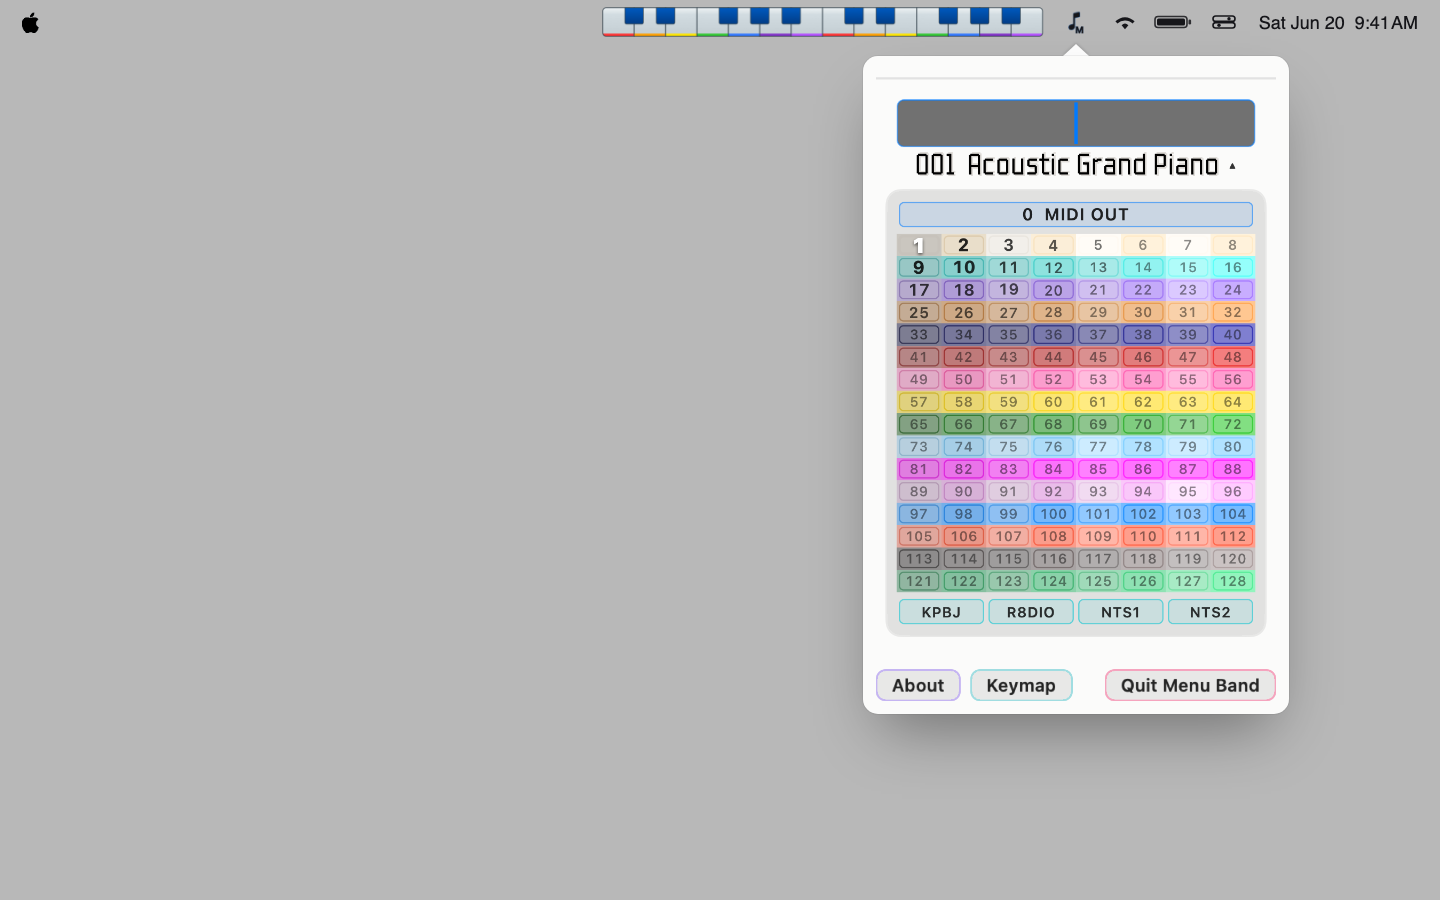
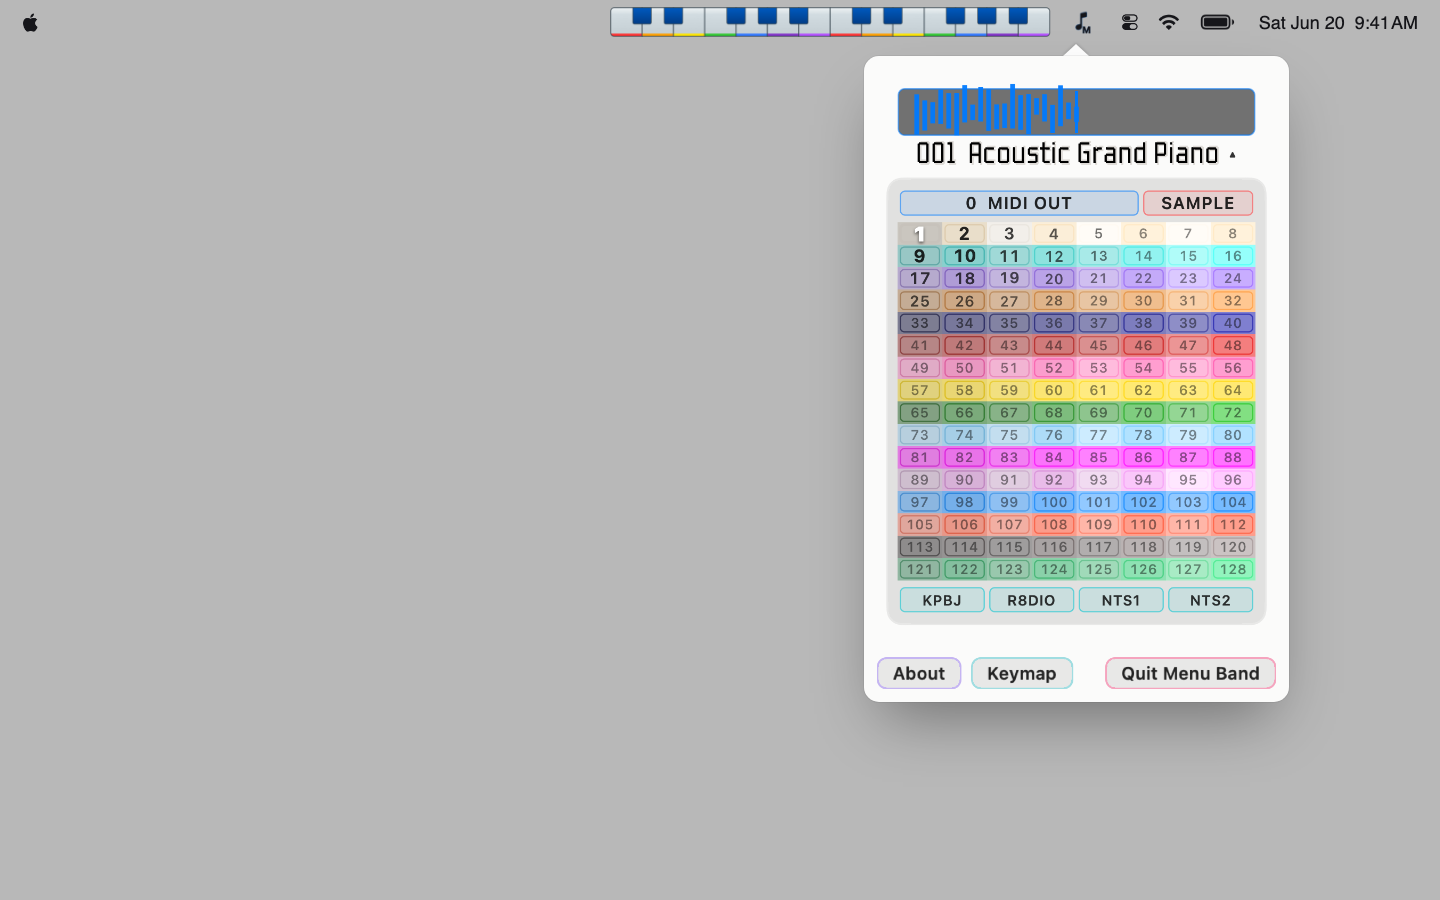
menuband: App Store screenshots — real menu-bar graphics, layered overview, polish
- Menu bar now uses real SF Symbols (apple.logo, Control Center, Wi-Fi,
  battery) rendered via bin/render-sf.swift at natural aspect — no more
  stretched hand-drawn SVGs or the crunchy Apple-logo crop.
- New layered 00-overview shot: Looking-For-Players + About cascade left, the
  popover drops from the ♪ note glyph on the right (windowEl/overviewCSS).
- Generator reads each surface's real PNG dims (no stale hardcodes); popover
  drops from the ♪ note (STRIP_CENTER=1076).
- Popover: removed the top hairline separator; waveform strip seeded with a
  synthetic 'playing' scope (silence baseline → noisy signal at the playhead)
  so it isn't an empty bar in capture.
- About window shortened (tighter icon margin).

Changed region(s): [[0.5938, 0.0933, 0.9062, 0.8089], [0.4062, 0.0, 0.875, 0.0311], [0.0, 0.0, 0.0312, 0.0311]]

diff --git a/slab/menuband/Sources/MenuBand/WaveformStripView.swift b/slab/menuband/Sources/MenuBand/WaveformStripView.swift
@@ -75,6 +75,60 @@ final class WaveformStripView: NSView {
 
     deinit { timer?.invalidate() }
 
+    /// Seed the rolling history with a believable synthetic waveform so the
+    /// strip paints real-looking bars in the HEADLESS App Store capture
+    /// (`--render-popover`), where no audio engine is running and the live
+    /// `tick()` path never accumulates columns. Pure Core Graphics — the
+    /// strip's `draw(_:)` consumes `colMin`/`colMax` exactly as it would for
+    /// live audio.
+    ///
+    /// Reads as a scope mid-playback: the LEFT portion is a flat horizontal
+    /// line of silence (a centered baseline at ±~0), then the waveform "turns
+    /// on" and fills the rest with a noisy, randomish played signal centered on
+    /// that baseline — a sound that just started. Newest columns are drawn at
+    /// the center playhead, oldest off to the left, so the silence sits at the
+    /// far-left tail and the active audio leads up to the needle.
+    /// No-op at runtime; only the capture path calls it.
+    func seedSyntheticWaveform(columns: Int = 220) {
+        let n = max(8, min(Self.historyCap, columns))
+        colMin = []; colMax = []
+        colMin.reserveCapacity(n); colMax.reserveCapacity(n)
+        // i = 0 is oldest (far left); the last column sits at the center
+        // playhead. Keep the first ~40% flat (silence), then ramp the activity
+        // in so the audio reads as "just started playing."
+        let silenceFraction: Float = 0.4
+        // Deterministic value-noise so the capture is reproducible run-to-run
+        // (no RNG seeding needed) yet looks irregular like real samples.
+        func noise(_ x: Float) -> Float {
+            let s = sinf(x * 12.9898) * 43758.5453
+            return (s - s.rounded(.down)) * 2 - 1   // → [-1, 1)
+        }
+        for i in 0..<n {
+            let t = Float(i) / Float(n - 1)
+            if t < silenceFraction {
+                // Flat baseline: a dead-center line (tiny floor so the strip
+                // still ticks a 1-px silence bar rather than vanishing).
+                colMax.append(0.015)
+                colMin.append(-0.015)
+                continue
+            }
+            // Ease the amplitude up from the silence edge so the onset isn't a
+            // hard wall — a quick attack into a sustained, noisy signal.
+            let local = (t - silenceFraction) / (1 - silenceFraction)
+            let attack = min(1, local * 4)
+            let x = Float(i)
+            // Random-ish sample value: white-ish noise shaped by a low carrier
+            // so it has body instead of reading as pure static.
+            let body = sinf(x * 0.5) * 0.45
+            let grain = noise(x) * 0.55 + noise(x * 2.3) * 0.25
+            let top = (abs(body) * 0.5 + abs(grain)) * attack
+            let bot = (abs(noise(x * 1.7)) * 0.7 + abs(body) * 0.4) * attack
+            colMax.append(max(0.02, top))
+            colMin.append(min(-0.02, -bot))
+        }
+        needsDisplay = true
+    }
+
     private func tick() {
         let reversing = menuBand?.isRewinding ?? false
         if reversing {

diff --git a/slab/menuband/bin/render-sf.swift b/slab/menuband/bin/render-sf.swift
@@ -1,0 +1,36 @@
+import AppKit
+
+// Render real SF Symbols (Apple's own menu-bar glyphs) to crisp tinted PNGs —
+// no stretching (natural aspect), no hand-drawn SVG. Ink = #16161a (light bar).
+let ink = NSColor(red: 0x16/255.0, green: 0x16/255.0, blue: 0x1a/255.0, alpha: 1)
+let OUT = NSString(string: CommandLine.arguments[1]).expandingTildeInPath
+
+func render(_ symbol: String, to file: String, pointSize: CGFloat, weight: NSFont.Weight = .regular) {
+    let cfg = NSImage.SymbolConfiguration(pointSize: pointSize, weight: weight)
+    guard let base = NSImage(systemSymbolName: symbol, accessibilityDescription: nil),
+          let img = base.withSymbolConfiguration(cfg) else {
+        FileHandle.standardError.write(Data("MISSING symbol \(symbol)\n".utf8)); return
+    }
+    let size = img.size
+    let scale: CGFloat = 4
+    guard let rep = NSBitmapImageRep(bitmapDataPlanes: nil,
+        pixelsWide: Int((size.width*scale).rounded()), pixelsHigh: Int((size.height*scale).rounded()),
+        bitsPerSample: 8, samplesPerPixel: 4, hasAlpha: true, isPlanar: false,
+        colorSpaceName: .deviceRGB, bytesPerRow: 0, bitsPerPixel: 0) else { return }
+    rep.size = size
+    NSGraphicsContext.saveGraphicsState()
+    NSGraphicsContext.current = NSGraphicsContext(bitmapImageRep: rep)
+    let r = NSRect(origin: .zero, size: size)
+    img.draw(in: r)
+    ink.set(); r.fill(using: .sourceAtop)               // tint template → ink
+    NSGraphicsContext.restoreGraphicsState()
+    let path = "\(OUT)/\(file)"
+    try? rep.representation(using: .png, properties: [:])!.write(to: URL(fileURLWithPath: path))
+    print("wrote \(file)  \(rep.pixelsWide)x\(rep.pixelsHigh)  aspect \(String(format: "%.3f", size.width/size.height))")
+}
+
+// Menu-bar right cluster + Apple logo, all real SF Symbols.
+render("apple.logo",   to: "sf-apple.png",   pointSize: 36, weight: .regular)
+render("switch.2",     to: "sf-control.png", pointSize: 30, weight: .regular)  // Control Center
+render("wifi",         to: "sf-wifi.png",    pointSize: 30, weight: .regular)
+render("battery.100",  to: "sf-battery.png", pointSize: 30, weight: .regular)

diff --git a/slab/menuband/Sources/MenuBand/PopoverCapture.swift b/slab/menuband/Sources/MenuBand/PopoverCapture.swift
@@ -68,6 +68,18 @@ enum PopoverCLI {
         }
         v.layoutSubtreeIfNeeded()
 
+        // Seed the top mini-scope with a believable synthetic waveform — flat
+        // silence on the left, noisy played audio filling toward the center
+        // playhead. Headless, no audio engine runs, so the live capture loop
+        // never accumulates columns and the strip would otherwise paint as an
+        // empty dark bar. WaveformStripView is pure Core Graphics, so the
+        // seeded bars render fine under cacheDisplay.
+        func seedWaveformStrips(_ view: NSView) {
+            if let strip = view as? WaveformStripView { strip.seedSyntheticWaveform() }
+            view.subviews.forEach(seedWaveformStrips)
+        }
+        seedWaveformStrips(v)
+
         var size = v.fittingSize
         if size.width < 100 || size.height < 100 { size = NSSize(width: 360, height: 560) }
         v.frame = NSRect(origin: .zero, size: size)

diff --git a/slab/menuband/Sources/MenuBand/AboutWindow.swift b/slab/menuband/Sources/MenuBand/AboutWindow.swift
@@ -199,7 +199,7 @@ final class AboutWindowController: NSWindowController, NSWindowDelegate {
         stack.orientation = .vertical
         stack.alignment = .centerX
         stack.spacing = 12
-        stack.edgeInsets = NSEdgeInsets(top: 18, left: 28, bottom: 24, right: 28)
+        stack.edgeInsets = NSEdgeInsets(top: 10, left: 28, bottom: 24, right: 28)
         stack.translatesAutoresizingMaskIntoConstraints = false
         content.addSubview(stack)
         NSLayoutConstraint.activate([
@@ -231,6 +231,11 @@ final class AboutWindowController: NSWindowController, NSWindowDelegate {
                 self?.onPlayDrum?()
             }
             stack.addArrangedSubview(cards)
+            // Tighten the gap between the icon and the "Menu Band" title.
+            // The card view reserves vertical room for the hover fan-out
+            // (intrinsicContentSize), so the default stack spacing on top of
+            // that reads as too much dead space — pull the title in close.
+            stack.setCustomSpacing(2, after: cards)
             cardStack = cards
         }
 
@@ -748,7 +753,7 @@ final class CardStackView: NSView {
 
     /// Reserve room for the fanned-out back card so the deck stays
     /// centered in the panel and the peek isn't clipped by siblings.
-    override var intrinsicContentSize: NSSize { NSSize(width: 172, height: 144) }
+    override var intrinsicContentSize: NSSize { NSSize(width: 172, height: 122) }
 
     override var isFlipped: Bool { false }
 

diff --git a/slab/menuband/Sources/MenuBand/MenuBandPopover.swift b/slab/menuband/Sources/MenuBand/MenuBandPopover.swift
@@ -404,7 +404,10 @@ final class MenuBandPopoverViewController: NSViewController {
         titleRow.widthAnchor.constraint(equalTo: stack.widthAnchor,
                                          constant: -16).isActive = true
 
-        stack.addArrangedSubview(makeSeparator())
+        // (Top separator between the title row and the instrument cluster
+        // removed — the dark waveform strip already reads as the boundary,
+        // and the hairline divider just below the callout arrow looked
+        // unfinished in the App Store popover shot.)
 
         // [v1] Instrument cluster — folded in from the retired floating
         // window. Self-sizing (fixed internal width + a complete vertical